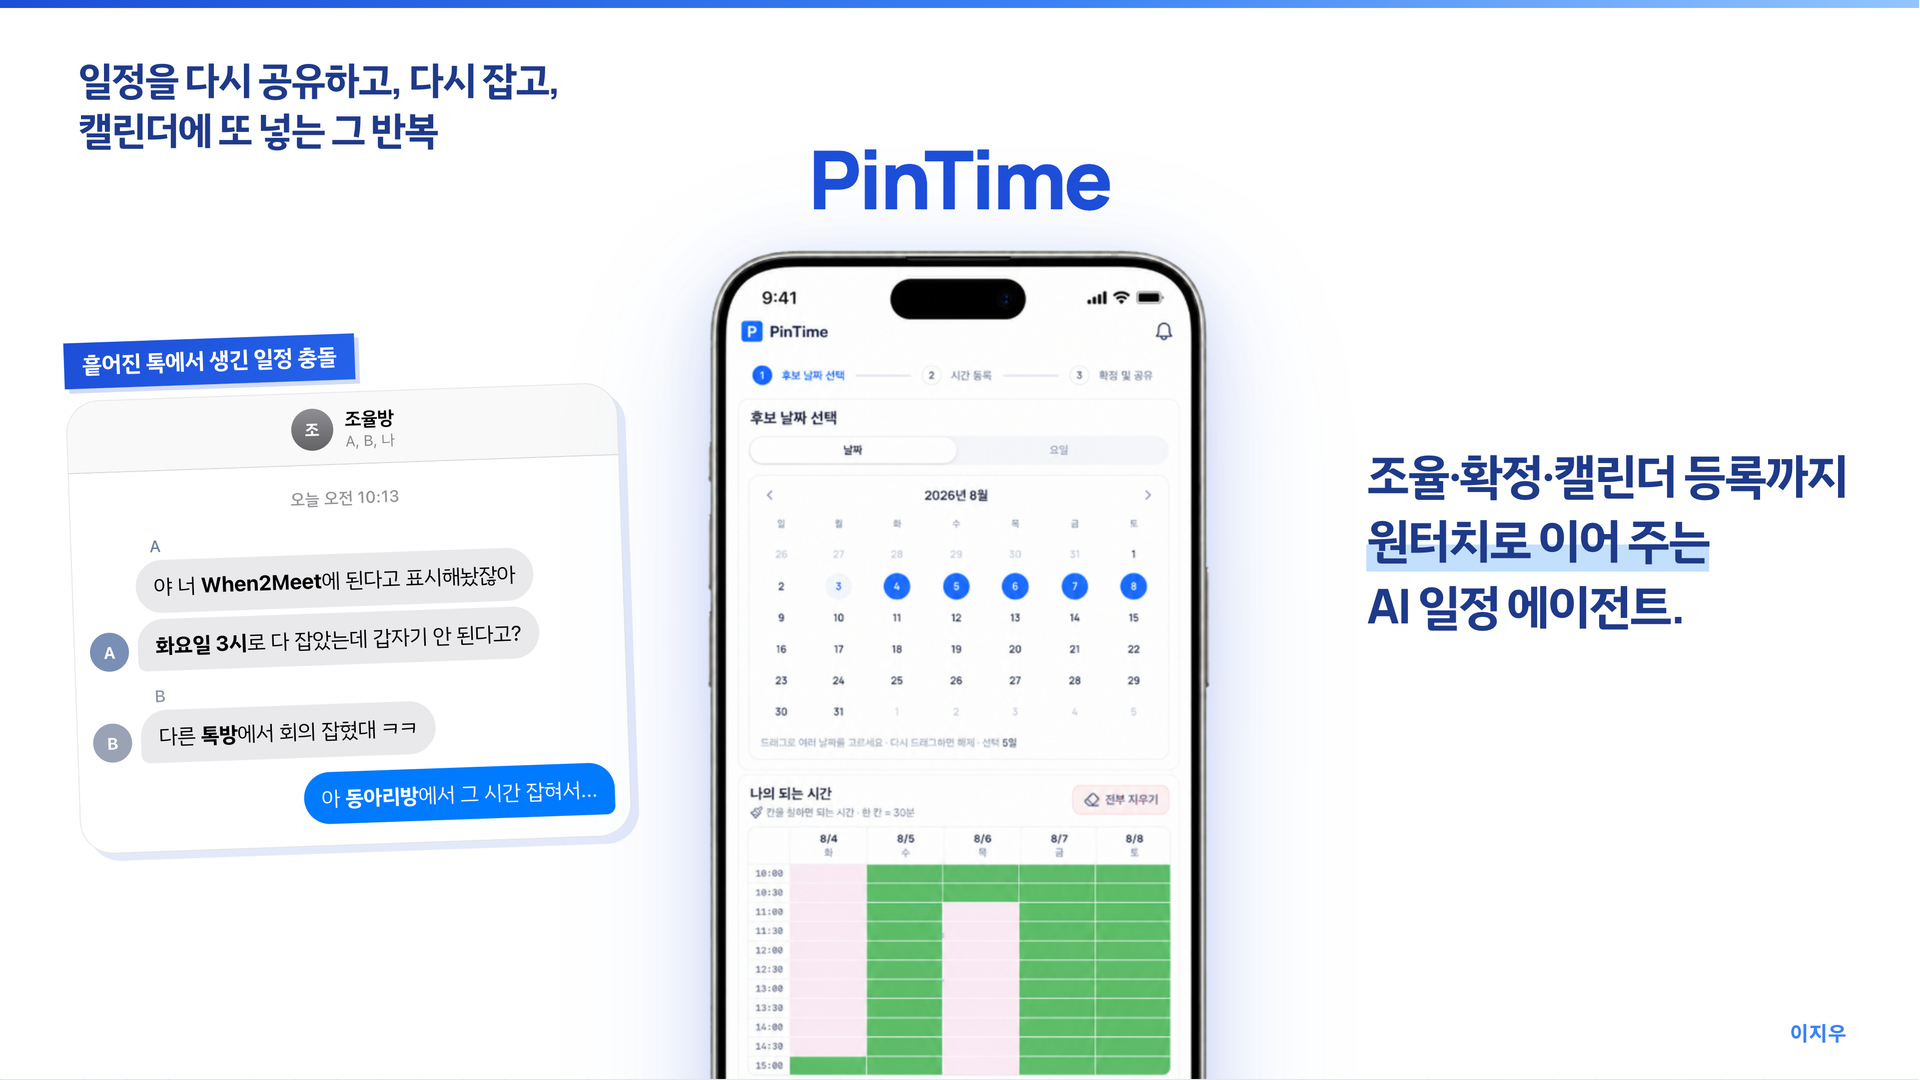
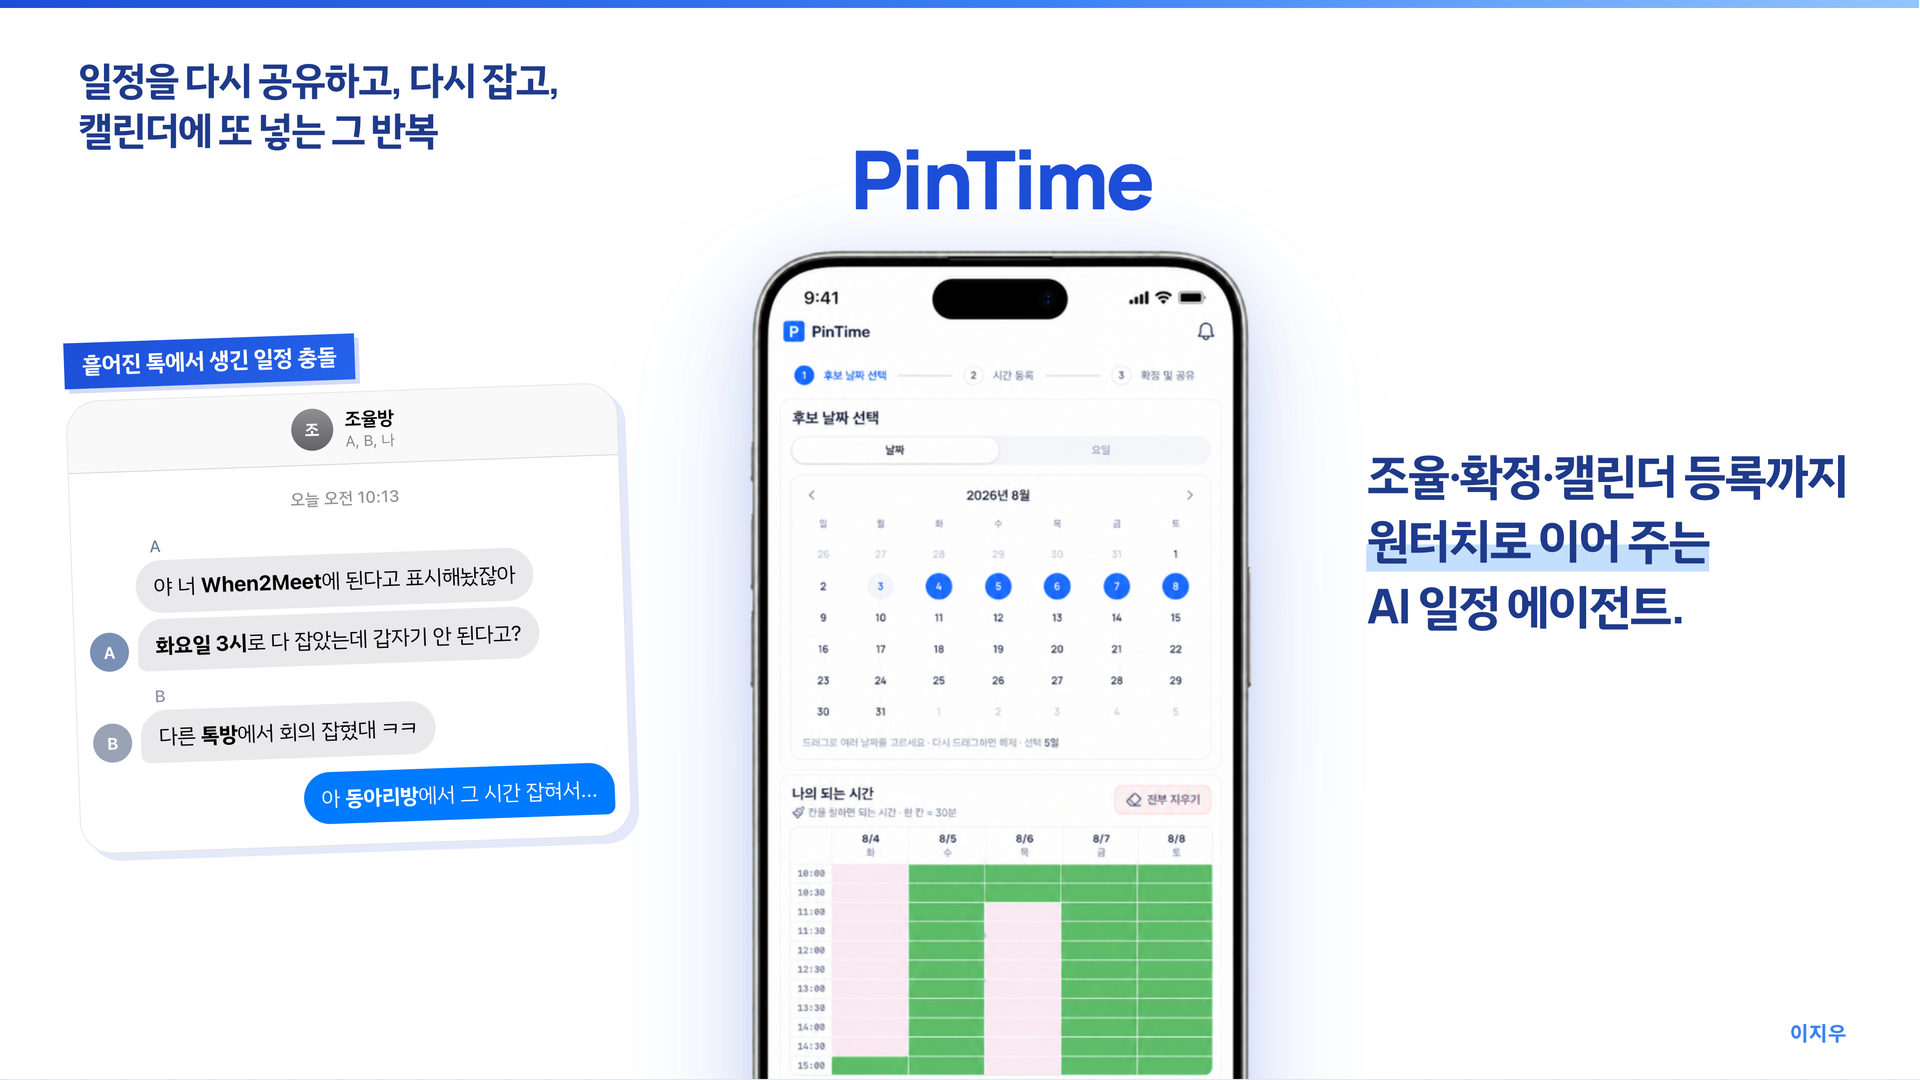
Nudge cover phone right for optical balance against chat.

diff --git a/public/pitch.html b/public/pitch.html
@@ -1450,7 +1450,8 @@
         justify-self: center;
         overflow: visible;
         width: 100%;
-        transform: translateY(95px);
+        /* optical center: left chat is heavier than right copy */
+        transform: translate(28px, 95px);
       }
 
       .cover-wordmark {
